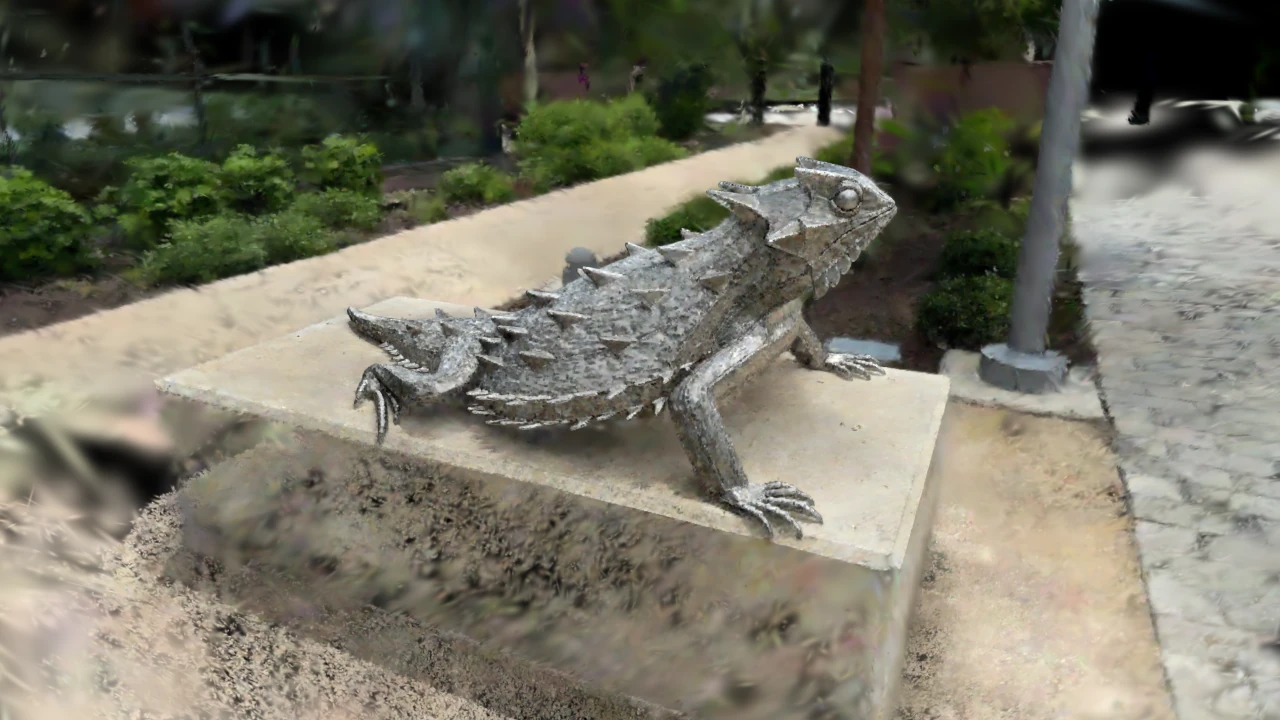
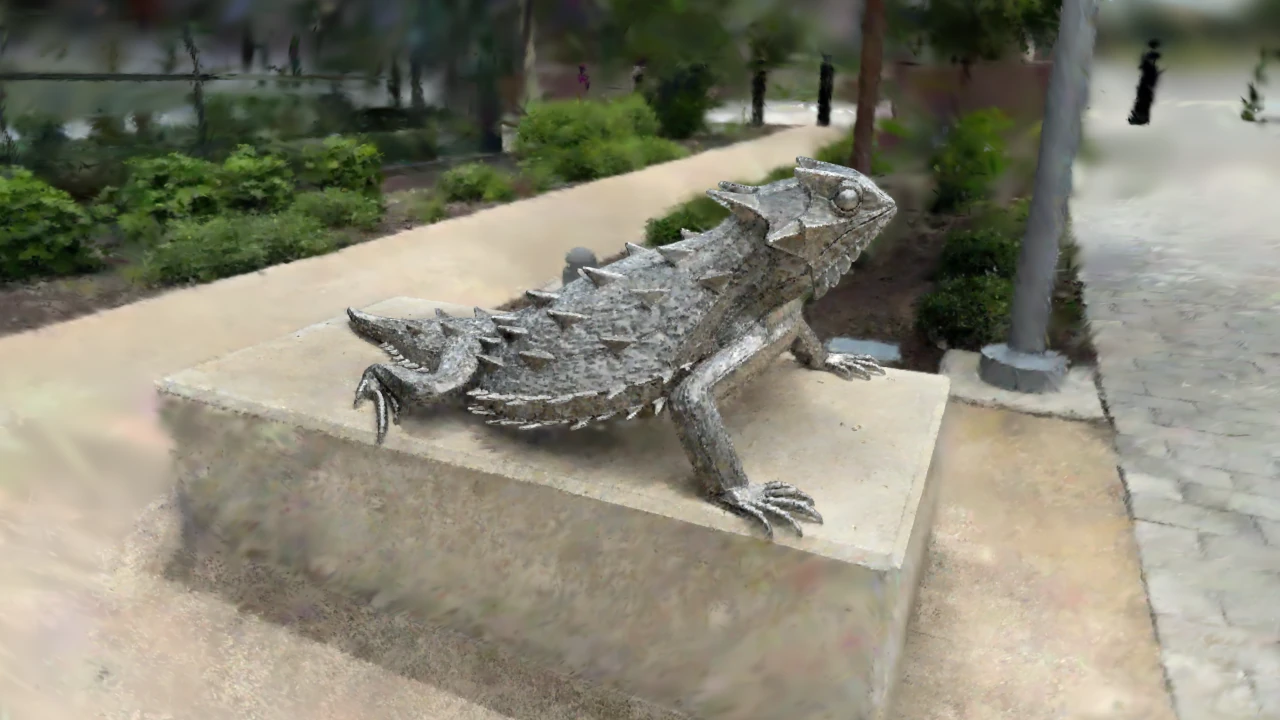
fix: retain distant splats with a scene-derived far plane

diff --git a/examples/gaussian_splat/main.cpp b/examples/gaussian_splat/main.cpp
@@ -832,7 +832,12 @@ int main(int argc, char** argv)
         const glm::vec3 eye {std::cos(angle) * cameraRadius, cameraHeight, std::sin(angle) * cameraRadius};
         const glm::mat4 view = glm::lookAt(eye, glm::vec3 {0.0f}, glm::vec3 {0.0f, 1.0f, 0.0f});
         const float     fovY = glm::radians(50.0f);
-        glm::mat4       proj = glm::perspective(fovY, aspect, 0.05f, 100.0f);
+        // The cloud can include distant background splats beyond the old fixed 100-unit plane.
+        const float distToCenter = glm::length(eye - sceneCenter);
+        const float farPlane     = std::max(100.0f, distToCenter + sceneRadius + 1.0f);
+        glm::mat4   proj         = glm::perspective(fovY, aspect, 0.05f, farPlane);
+        if (frameCount == 0)
+            std::printf("[gaussian-splat] camera: aspect %.6f, near 0.05, far %.3f\n", aspect, farPlane);
         proj[1][1] *= -1.0f; // Vulkan Y-down clip space
 
         CameraBlock camBlock {};
@@ -852,8 +857,7 @@ int main(int argc, char** argv)
 
         // GPU back-to-front sort: 6-stage counting sort over quantized depth,
         // recorded into cmd before the graph's splat pass reads pf.indices.
-        const float distToCenter = glm::length(eye - sceneCenter);
-        SortParams  sp {};
+        SortParams sp {};
         sp.view      = view;
         sp.proj      = proj;
         sp.count     = splatCount;

diff --git a/docs/showcase.md b/docs/showcase.md
@@ -11,7 +11,7 @@ DISPLAY= WAYLAND_DISPLAY= VRF_SPLAT_OFFLINE=1 \
   xmake run vrf_example_gaussian_splat /path/to/vasset/resources/splats/hornedlizard.spz
 ```
 
-This renders one frame without creating a window or swapchain. The output is 1280×720; camera aspect ratio, focal length and Gaussian pixel radii use the actual offscreen target extent. Converting this PNG to WebP preserves its dimensions and adds no framing or retouching.
+This renders one frame without creating a window or swapchain. The output is 1280×720; camera aspect ratio, focal length and Gaussian pixel radii use the actual offscreen target extent. The far clipping plane is computed from the camera-to-scene-center distance plus the scene bounding radius and a margin; for this view it is 348.424, instead of the old fixed 100. Converting this PNG to WebP preserves its dimensions and adds no framing or retouching.
 
 The chosen camera has an orbit angle of 2.1 radians, height 0.65 and horizontal radius 1.8. These optional settings apply only when `VRF_EXAMPLE_SCREENSHOT` is supplied. Invalid values fall back to the normal defaults; nonpositive radii are rejected. Normal windowed operation remains available when `VRF_SPLAT_OFFLINE` is absent. Offline mode requires an output path.
 
@@ -20,3 +20,5 @@ Input: [`hornedlizard.spz` from vasset](https://github.com/zzxzzk115/vasset/blob
 Validation: native build; offline render with display environment variables cleared; windowed automatic-exit regression; 1280×720 output inspection. The existing CPU/GPU depth-bucket comparison reports nonzero inversions, so the render is a visual example rather than an exhaustive sorting correctness result.
 
 Capture comparison: expanding the frustum-center culling margin to include essentially all forward-facing splats changed the high-view result by only 0.156/255 mean absolute RGB intensity. EWA versus 3DGUT at the lower camera view differed by 0.215/255. Neither adjustment materially filled the peripheral background. The final image uses EWA and the lower camera; these observations do not establish whether remaining peripheral artifacts originate in the input reconstruction or the renderer.
+
+Far-plane regression: at the same camera, increasing the old fixed far plane from 100 to 10000 changed the render by 15.152/255 mean absolute RGB intensity and restored distant/background content. The scene-derived far plane differs from the 10000 reference by only 0.184/255. This isolates far clipping from the separate frustum-center culling and projection-mode comparisons above.
